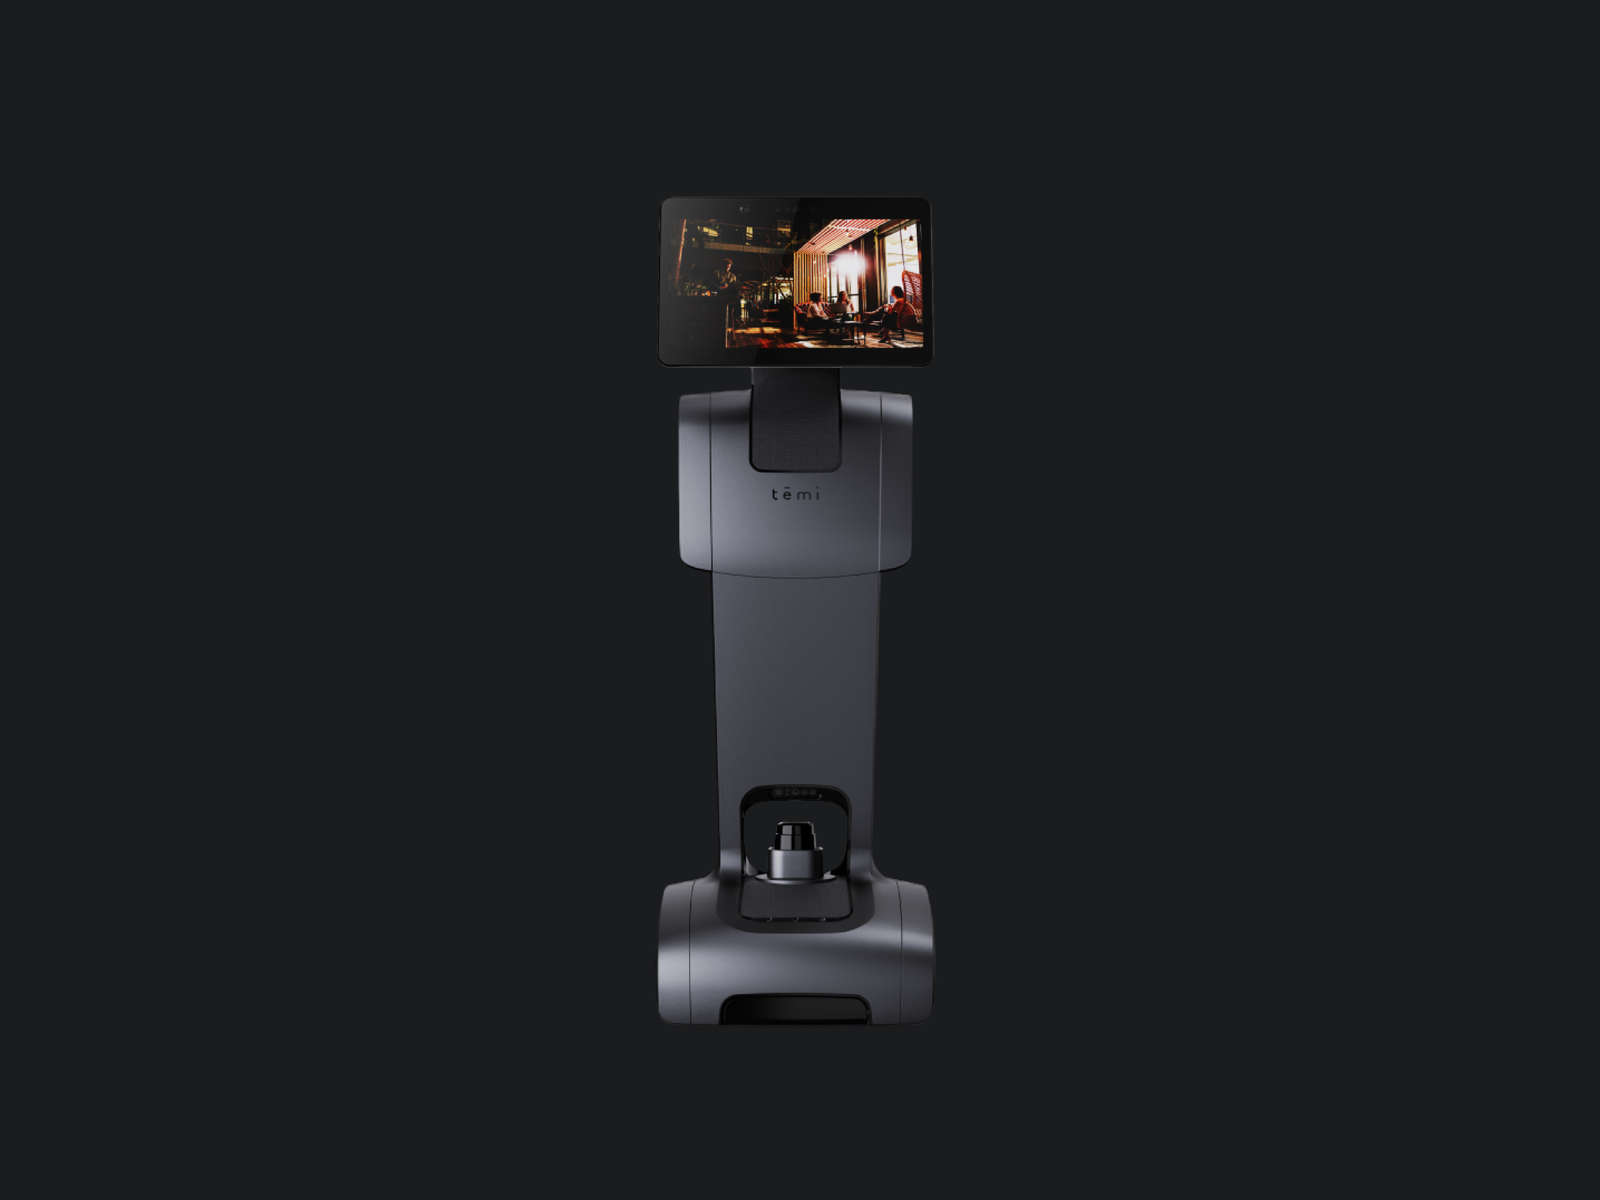
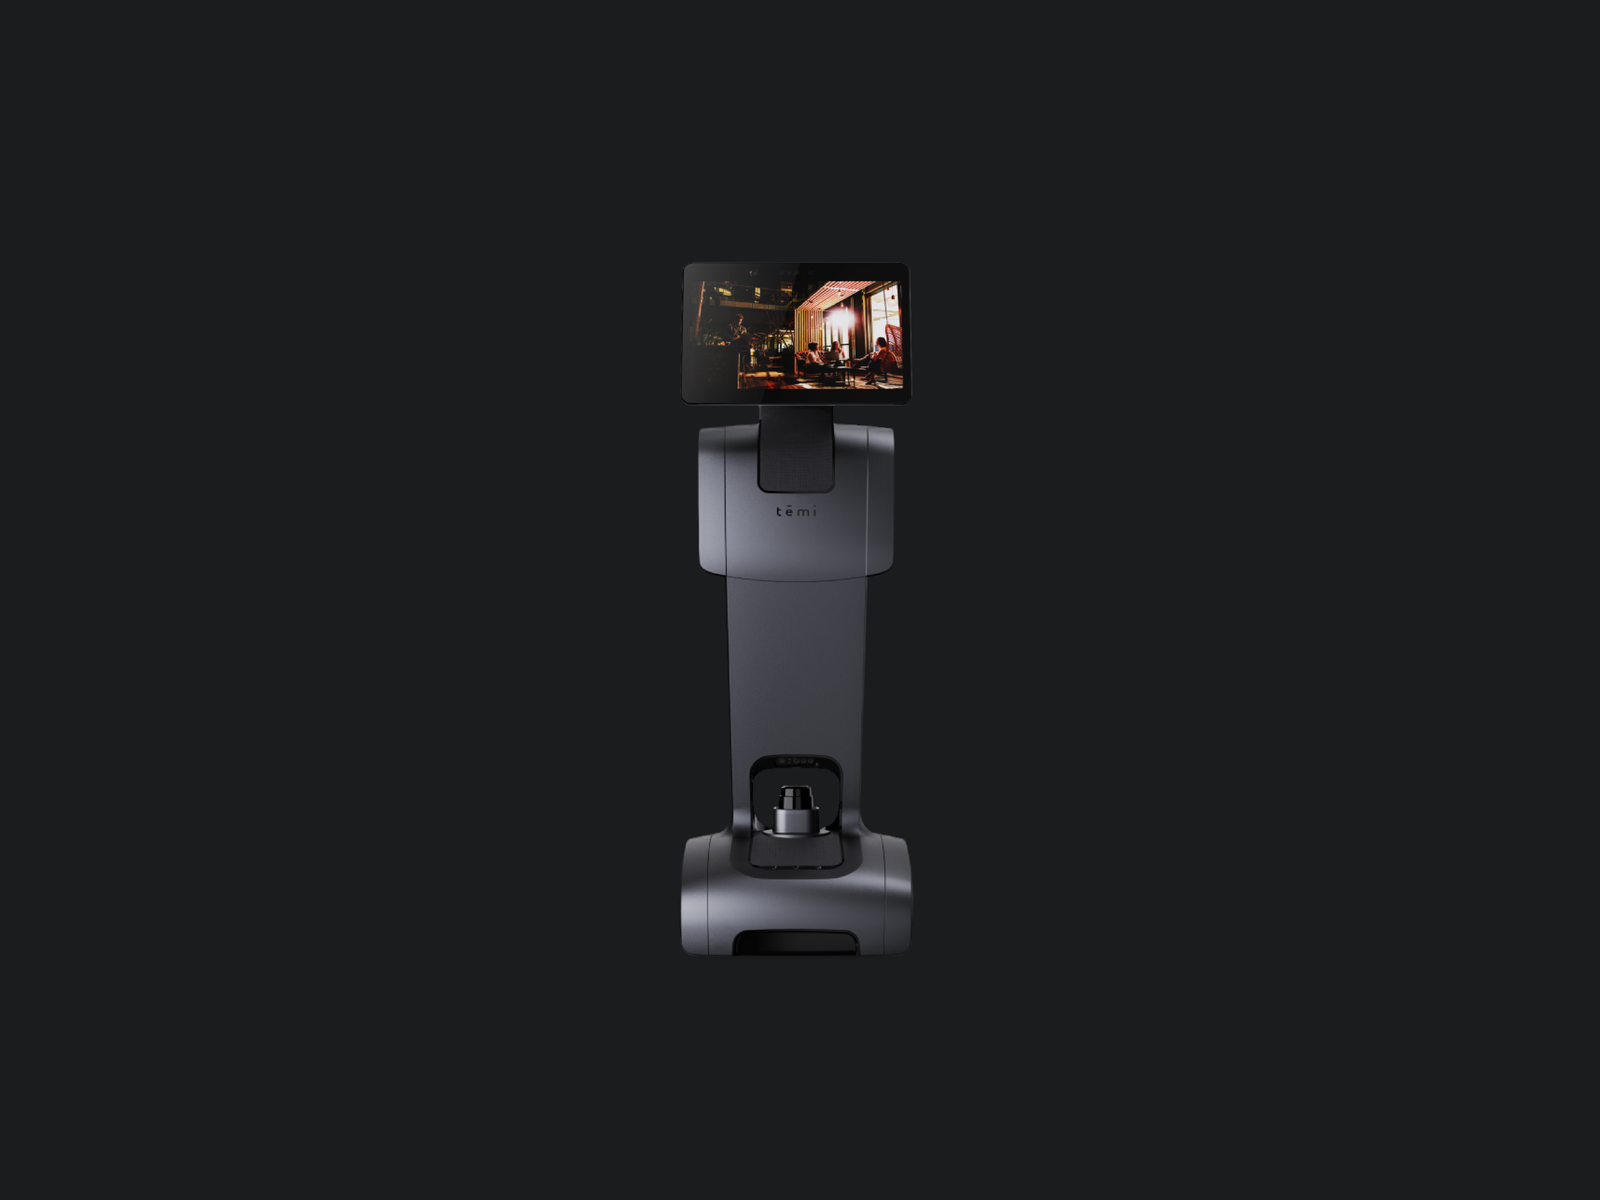
Show full temi products in 4:3 frames with more margin
Re-pad series photos at 72% fill so robots are not clipped; reduce CSS image inset.

Changed region(s): [[0.4062, 0.1542, 0.5938, 0.8633]]

diff --git a/src/css/components.css b/src/css/components.css
@@ -312,7 +312,8 @@
   height: 100%;
   object-fit: contain;
   object-position: center;
-  padding: 0.65rem 0.85rem;
+  /* Images already padded on canvas — keep light inset only */
+  padding: 0.35rem;
   transition: transform 0.5s var(--ease);
 }
 
@@ -414,7 +415,7 @@
   height: 100%;
   object-fit: contain;
   object-position: center;
-  padding: 0.65rem 0.85rem;
+  padding: 0.35rem;
   transition: transform 0.5s var(--ease);
 }
 
